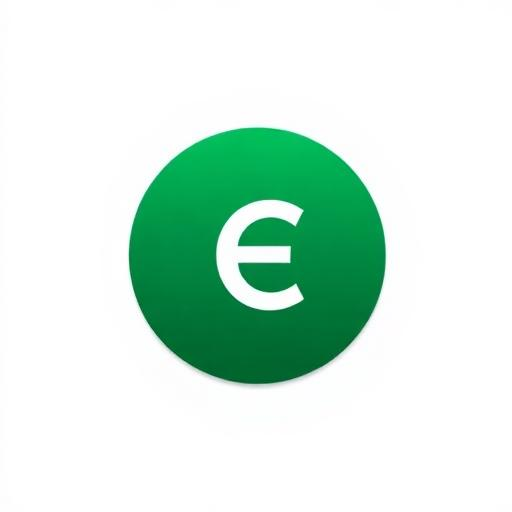
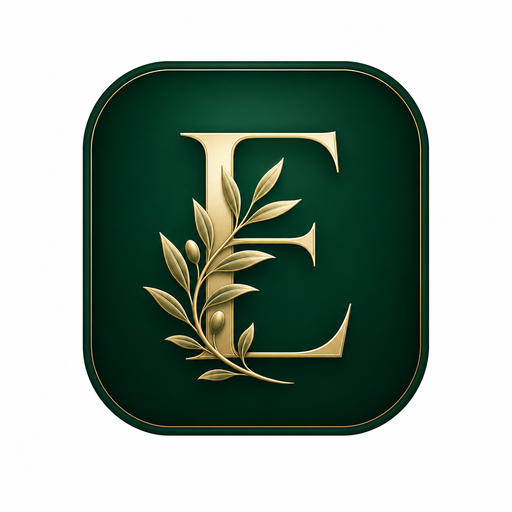
updates

diff --git a/src/lib/og-images.ts b/src/lib/og-images.ts
@@ -1,25 +1,31 @@
+import { siteUrl } from "@/lib/site-url";
+
 /**
  * Per-route Open Graph / Twitter share images.
  *
- * Each entry is the absolute URL of the image used for `og:image` and
- * `twitter:image` on that route. Until the gallery has curated brand assets,
- * we reuse the same Unsplash photos that appear on the page itself so the
- * social preview matches what the visitor sees.
+ * The branded `og-image.jpg` (deep emerald + gold "E" wreath) lives in
+ * `public/` so it's served from the site root. Every route uses the same
+ * branded card so link previews on WhatsApp, Facebook, X, iMessage, Slack,
+ * etc. all show the Elparaiso Garden logo and wordmark.
  *
- * Replace any of these with real branded photos from Supabase storage when
- * the team uploads them — keep the keys identical so route files don't need
- * to change.
+ * Crawlers (Facebook, X, LinkedIn, WhatsApp) require **absolute** URLs for
+ * `og:image` / `twitter:image`, so we resolve to a full canonical URL here.
+ *
+ * If a future route needs a different image (e.g. a specific event poster),
+ * override the value for that key only — the rest stay branded.
  */
+const BRAND_OG_IMAGE = siteUrl("/og-image.jpg");
+
 export const OG_IMAGES = {
-  home: "https://images.unsplash.com/photo-1555396273-367ea4eb4db5?w=1200&h=630&fit=crop&q=80",
-  menu: "https://images.unsplash.com/photo-1544025162-d76694265947?w=1200&h=630&fit=crop&q=80",
-  about: "https://images.unsplash.com/photo-1414235077428-338989a2e8c0?w=1200&h=630&fit=crop&q=80",
-  gallery: "https://images.unsplash.com/photo-1551024506-0bccd828d307?w=1200&h=630&fit=crop&q=80",
-  events: "https://images.unsplash.com/photo-1470337458703-46ad1756a187?w=1200&h=630&fit=crop&q=80",
-  contact: "https://images.unsplash.com/photo-[phone redacted]-0877df9cc836?w=1200&h=630&fit=crop&q=80",
-  reservations: "https://images.unsplash.com/photo-1414235077428-338989a2e8c0?w=1200&h=630&fit=crop&q=80",
-  order: "https://images.unsplash.com/photo-1544025162-d76694265947?w=1200&h=630&fit=crop&q=80",
-  track: "https://images.unsplash.com/photo-1504674900247-0877df9cc836?w=1200&h=630&fit=crop&q=80",
+  home: BRAND_OG_IMAGE,
+  menu: BRAND_OG_IMAGE,
+  about: BRAND_OG_IMAGE,
+  gallery: BRAND_OG_IMAGE,
+  events: BRAND_OG_IMAGE,
+  contact: BRAND_OG_IMAGE,
+  reservations: BRAND_OG_IMAGE,
+  order: BRAND_OG_IMAGE,
+  track: BRAND_OG_IMAGE,
 } as const;
 
 export type OgImageKey = keyof typeof OG_IMAGES;

diff --git a/src/components/admin/AdminLayout.tsx b/src/components/admin/AdminLayout.tsx
@@ -137,12 +137,12 @@ export default function AdminLayout({ children }: { children: React.ReactNode })
     <div className="flex flex-col h-full">
       <div className="px-5 h-16 flex items-center border-b border-border/60 shrink-0">
         <Link to="/" className="flex items-center gap-3 group">
-          <div
-            className="w-9 h-9 rounded-xl flex items-center justify-center text-primary-foreground font-bold text-base shrink-0"
-            style={{ background: "var(--gradient-gold)", boxShadow: "var(--shadow-gold)" }}
-          >
-            E
-          </div>
+          <img
+            src="/logo.png"
+            alt="Elparaiso Garden Kisii logo"
+            className="w-9 h-9 rounded-xl object-cover bg-white shrink-0"
+            style={{ boxShadow: "var(--shadow-gold)" }}
+          />
           <div className="min-w-0">
             <div className="font-semibold text-foreground text-sm leading-tight tracking-tight">Elparaiso Garden</div>
             <div className="text-[11px] text-muted-foreground uppercase tracking-wider">Admin</div>

diff --git a/src/pages/public/OrderTrackingPage.tsx b/src/pages/public/OrderTrackingPage.tsx
@@ -1,4 +1,5 @@
 import { useEffect, useState } from "react";
+import { useSearch } from "@tanstack/react-router";
 import { useOrdersByPhone, useOrderByNumber } from "@/lib/supabase-hooks";
 import { useInitiateMpesaPayment, usePaymentStatus } from "@/lib/payments";
 import { Button } from "@/components/ui/button";
@@ -131,7 +132,16 @@ export default function OrderTrackingPage() {
   const [orderNumberInput, setOrderNumberInput] = useState("");
   const [phone, setPhone] = useState("");
   const [orderNumber, setOrderNumber] = useState("");
-  const [searchType, setSearchType] = useState<"phone" | "number">("phone");
+  const search = useSearch({ from: "/track" }) as { q?: string };
+  const [searchType, setSearchType] = useState<"phone" | "number">(search.q ? "number" : "phone");
+
+  useEffect(() => {
+    if (search.q) {
+      setSearchType("number");
+      setOrderNumberInput(search.q);
+      setOrderNumber(search.q);
+    }
+  }, [search.q]);
 
   const trackByPhone = useOrdersByPhone(searchType === "phone" ? phone : "");
   const trackByNumber = useOrderByNumber(searchType === "number" ? orderNumber : "");

diff --git a/src/routes/__root.tsx b/src/routes/__root.tsx
@@ -1,22 +1,30 @@
 import { createRootRoute, Outlet, useRouterState } from "@tanstack/react-router";
 import { useEffect } from "react";
+import { siteUrl } from "@/lib/site-url";
 
 export const Route = createRootRoute({
   head: () => ({
     meta: [
       { charSet: "utf-8" },
       { name: "viewport", content: "width=device-width, initial-scale=1, viewport-fit=cover" },
-      { name: "theme-color", content: "#0a0a0a" },
+      { name: "theme-color", content: "#01301F" },
       { name: "robots", content: "index, follow" },
       { name: "author", content: "Elparaiso Garden Kisii" },
       { property: "og:site_name", content: "Elparaiso Garden Kisii" },
       { property: "og:type", content: "website" },
       { property: "og:locale", content: "en_KE" },
+      // Branded fallback share image — leaf routes override per page.
+      { property: "og:image", content: siteUrl("/og-image.jpg") },
+      { property: "og:image:width", content: "1200" },
+      { property: "og:image:height", content: "630" },
+      { property: "og:image:alt", content: "Elparaiso Garden Kisii" },
       { name: "twitter:card", content: "summary_large_image" },
       { name: "twitter:site", content: "@elparaisogardens" },
+      { name: "twitter:image", content: siteUrl("/og-image.jpg") },
     ],
     links: [
       { rel: "icon", href: "/favicon.ico" },
+      { rel: "apple-touch-icon", href: "/icon-192.png" },
     ],
   }),
   component: RootComponent,

diff --git a/src/pages/admin/AdminProfile.tsx b/src/pages/admin/AdminProfile.tsx
@@ -84,8 +84,13 @@ export default function AdminProfile() {
       }
 
       await refresh();
-    } catch (e) {
-      toast.error(e instanceof Error ? e.message : "Failed to save profile.");
+    } catch (e: unknown) {
+      console.error("[AdminProfile] save failed", e);
+      const msg =
+        (e as { message?: string } | null)?.message ||
+        (typeof e === "string" ? e : "") ||
+        "Failed to save profile.";
+      toast.error(msg);
     } finally {
       setSaving(false);
     }

diff --git a/src/components/public/PublicLayout.tsx b/src/components/public/PublicLayout.tsx
@@ -8,6 +8,7 @@ import { useAuth } from "@/lib/auth";
 import { useCart } from "@/contexts/CartContext";
 import CartDrawer from "@/components/public/CartDrawer";
 import CustomerInstallButton from "@/components/public/CustomerInstallButton";
+import logoUrl from "@/assets/logo.png";
 
 const navLinks = [
   { to: "/", label: "Home" },
@@ -44,7 +45,7 @@ export default function PublicLayout({ children }: { children: React.ReactNode }
         <div className="container">
           <div className="flex items-center justify-between h-16 md:h-20 gap-4">
             <Link to="/" className="flex items-center gap-2 group flex-shrink-0">
-              <div className="w-8 h-8 rounded-full bg-primary flex items-center justify-center text-primary-foreground font-display font-bold text-sm">E</div>
+              <img src={logoUrl} alt="Elparaiso Garden Kisii logo" className="w-10 h-10 rounded-full object-cover bg-white" loading="eager" decoding="async" />
               <div className="hidden sm:block">
                 <div className="font-display font-bold text-lg leading-tight text-foreground group-hover:text-primary transition-colors">Elparaiso</div>
                 <div className="text-xs text-muted-foreground leading-tight">Garden Kisii</div>
@@ -103,7 +104,7 @@ export default function PublicLayout({ children }: { children: React.ReactNode }
                 <SheetContent side="right" className="w-72 bg-card border-border p-0">
                   <div className="flex flex-col h-full">
                     <div className="flex items-center justify-between p-6 border-b border-border">
-                      <div className="font-display font-bold text-lg text-foreground">Elparaiso Garden</div>
+                      <div className="flex items-center gap-2"><img src={logoUrl} alt="Elparaiso Garden Kisii logo" className="w-8 h-8 rounded-full object-cover bg-white" /><span className="font-display font-bold text-lg text-foreground">Elparaiso Garden</span></div>
                       <Button variant="ghost" size="icon" onClick={() => setMobileOpen(false)}><X className="w-4 h-4" /></Button>
                     </div>
                     <nav className="flex flex-col gap-1 p-4 flex-1 overflow-y-auto">
@@ -141,7 +142,7 @@ export default function PublicLayout({ children }: { children: React.ReactNode }
         <div className="container py-12">
           <div className="grid grid-cols-1 md:grid-cols-2 lg:grid-cols-4 gap-8">
             <div className="lg:col-span-2">
-              <div className="font-display font-bold text-2xl text-foreground mb-2">Elparaiso Garden</div>
+              <div className="flex items-center gap-3 mb-2"><img src={logoUrl} alt="Elparaiso Garden Kisii logo" className="w-12 h-12 rounded-full object-cover bg-white" /><span className="font-display font-bold text-2xl text-foreground">Elparaiso Garden</span></div>
               <p className="text-primary text-sm font-medium mb-3">Kisii's 24/7 Bar, Grill & Chill Spot</p>
               <p className="text-muted-foreground text-sm leading-relaxed max-w-sm">Great food, chilled drinks, good music, and unforgettable vibes. Open 24/7 — dine in, drive-through, takeaway, or order delivery anytime.</p>
               <div className="flex gap-3 mt-4">

diff --git a/src/pages/admin/AcceptInvite.tsx b/src/pages/admin/AcceptInvite.tsx
@@ -66,9 +66,7 @@ export default function AcceptInvite() {
     <div className="min-h-screen bg-background flex items-center justify-center p-4">
       <div className="w-full max-w-sm">
         <div className="text-center mb-8">
-          <div className="w-16 h-16 rounded-full bg-primary/10 border border-primary/20 flex items-center justify-center mx-auto mb-4">
-            <span className="text-primary font-display font-bold text-2xl">E</span>
-          </div>
+          <img src="/logo.png" alt="Elparaiso Garden Kisii logo" className="w-20 h-20 rounded-full object-cover bg-white mx-auto mb-4 border border-primary/20" />
           <h1 className="text-2xl font-bold text-foreground">Accept invitation</h1>
           <p className="text-muted-foreground text-sm mt-1">Set your password to activate your admin account.</p>
         </div>

diff --git a/src/pages/admin/AdminLogin.tsx b/src/pages/admin/AdminLogin.tsx
@@ -89,9 +89,7 @@ export default function AdminLogin() {
     <div className="min-h-screen bg-background flex items-center justify-center p-4">
       <div className="w-full max-w-sm">
         <div className="text-center mb-8">
-          <div className="w-16 h-16 rounded-full bg-primary/10 border border-primary/20 flex items-center justify-center mx-auto mb-4">
-            <span className="text-primary font-display font-bold text-2xl">E</span>
-          </div>
+          <img src="/logo.png" alt="Elparaiso Garden Kisii logo" className="w-20 h-20 rounded-full object-cover bg-white mx-auto mb-4 border border-primary/20" />
           <h1 className="text-2xl font-bold text-foreground">Admin Panel</h1>
           <p className="text-muted-foreground text-sm mt-1">Elparaiso Garden Kisii</p>
         </div>

diff --git a/src/pages/public/OrderPage.tsx b/src/pages/public/OrderPage.tsx
@@ -254,7 +254,7 @@ export default function OrderPage() {
               </div>
             </Card>
             <div className="flex flex-wrap justify-center gap-3">
-              <Link to="/track"><Button>Track Your Order <ArrowRight className="w-4 h-4 ml-1.5" /></Button></Link>
+              <Link to="/track" search={{ q: undefined }}><Button>Track Your Order <ArrowRight className="w-4 h-4 ml-1.5" /></Button></Link>
               <Link to="/menu"><Button variant="outline"><UtensilsCrossed className="w-4 h-4 mr-1.5" />Order more</Button></Link>
               <Link to="/"><Button variant="outline"><Home className="w-4 h-4 mr-1.5" />Home</Button></Link>
             </div>
@@ -650,7 +650,7 @@ export default function OrderPage() {
 
               <div className="mt-4 flex flex-wrap gap-2 text-xs text-muted-foreground">
                 <a href="tel:[phone redacted]" className="inline-flex items-center gap-1.5 hover:text-primary"><Phone className="w-3.5 h-3.5" /> [phone redacted]</a>
-                <Link to="/track" className="inline-flex items-center gap-1.5 hover:text-primary"><CalendarDays className="w-3.5 h-3.5" /> Track order</Link>
+                <Link to="/track" search={{ q: undefined }} className="inline-flex items-center gap-1.5 hover:text-primary"><CalendarDays className="w-3.5 h-3.5" /> Track order</Link>
               </div>
             </aside>
           </div>

diff --git a/index.html b/index.html
@@ -4,7 +4,8 @@
     <meta charset="UTF-8" />
     <meta name="viewport" content="width=device-width, initial-scale=1.0, maximum-scale=1" />
     <meta name="theme-color" content="#01301F" />
-    <link rel="apple-touch-icon" href="/icon-192.png" />
+    <link rel="icon" type="image/png" href="/logo.png" />
+    <link rel="apple-touch-icon" href="/logo.png" />
     <title>Elparaiso Garden Kisii</title>
   </head>
   <body>

diff --git a/src/pages/public/CustomerLoginPage.tsx b/src/pages/public/CustomerLoginPage.tsx
@@ -116,6 +116,7 @@ export default function CustomerLoginPage() {
         />
         <div className="max-w-md mx-auto">
           <div className="text-center mb-8">
+            <img src="/logo.png" alt="Elparaiso Garden Kisii logo" className="w-20 h-20 mx-auto mb-4 rounded-full object-cover bg-white border border-primary/20" />
             <div className="inline-flex items-center gap-2 mb-4 px-3 py-1 rounded-full border border-primary/30 bg-primary/5 text-xs font-medium uppercase tracking-[0.18em] text-primary">
               <span className="w-1.5 h-1.5 rounded-full bg-primary animate-pulse" />
               Customer account
@@ -382,7 +383,7 @@ export default function CustomerLoginPage() {
           {view === "auth" && (
             <p className="text-center text-sm text-foreground/55 mt-6">
               Just want to track an order?{" "}
-              <Link to="/track" className="text-primary hover:underline font-medium">
+              <Link to="/track" search={{ q: undefined }} className="text-primary hover:underline font-medium">
                 Track without signing in
               </Link>
             </p>

diff --git a/src/routes/track.tsx b/src/routes/track.tsx
@@ -4,6 +4,9 @@ import { OG_IMAGES } from "@/lib/og-images";
 import { siteUrl } from "@/lib/site-url";
 
 export const Route = createFileRoute("/track")({
+  validateSearch: (search: Record<string, unknown>) => ({
+    q: typeof search.q === "string" ? search.q : undefined,
+  }),
   head: () => ({
     meta: [
       { title: "Track Your Order — Elparaiso Garden Kisii" },